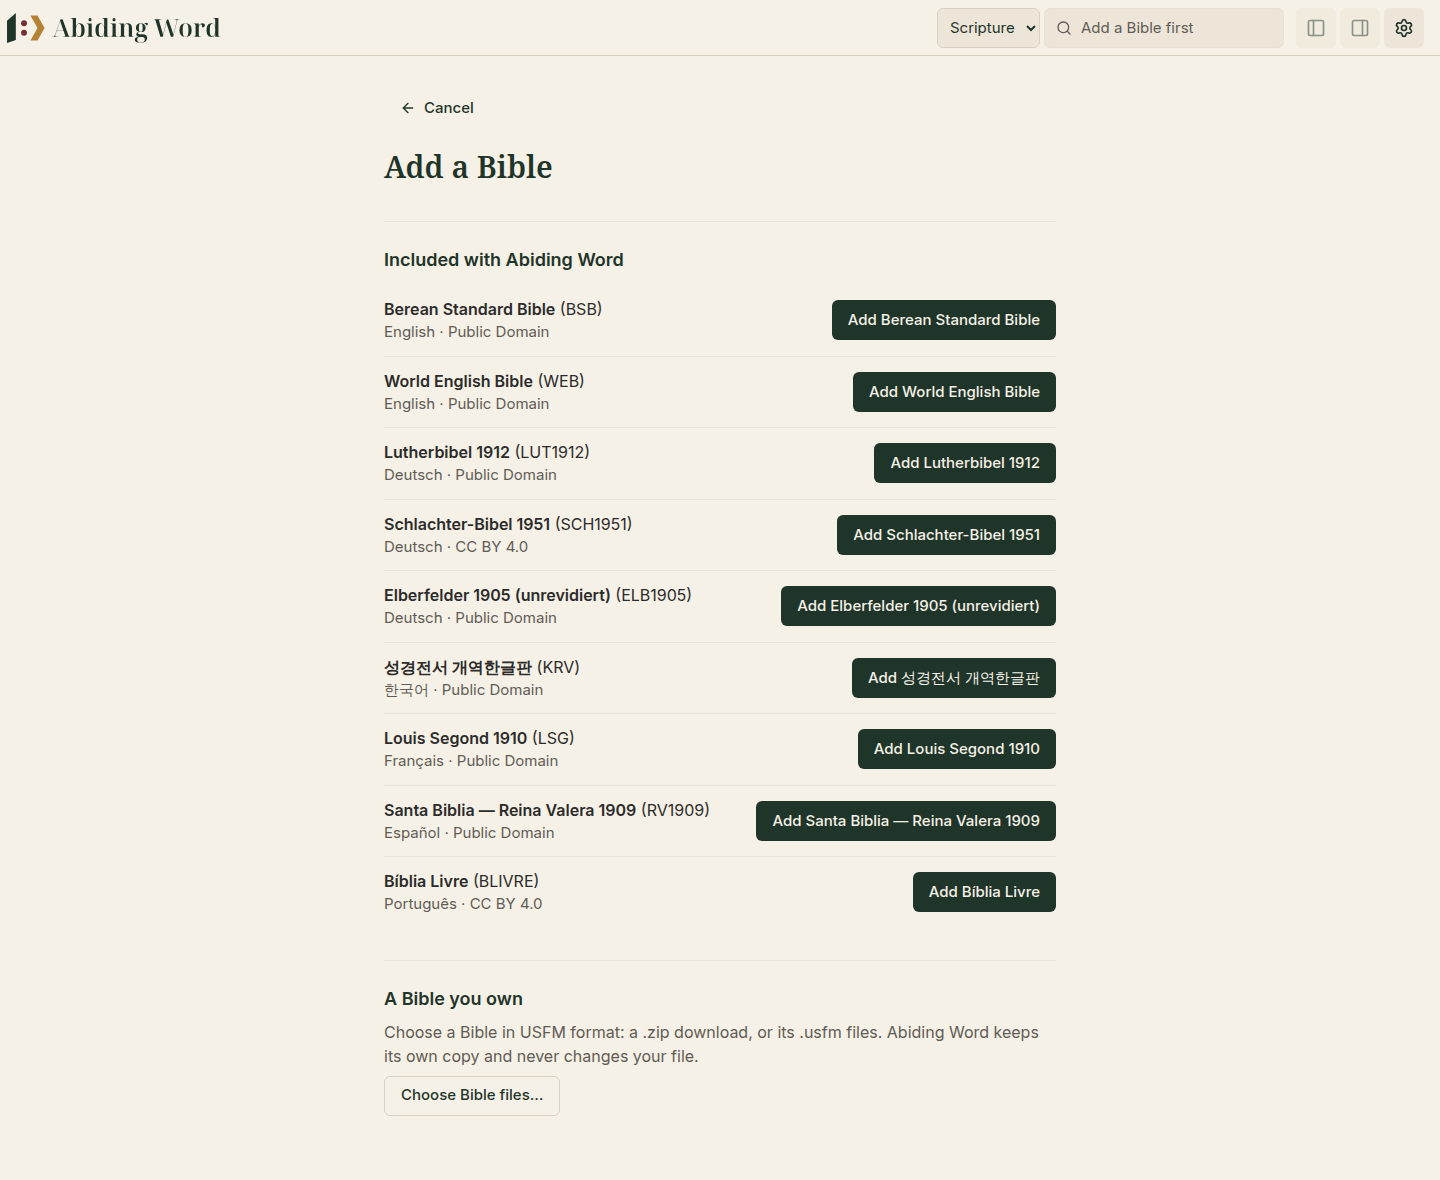
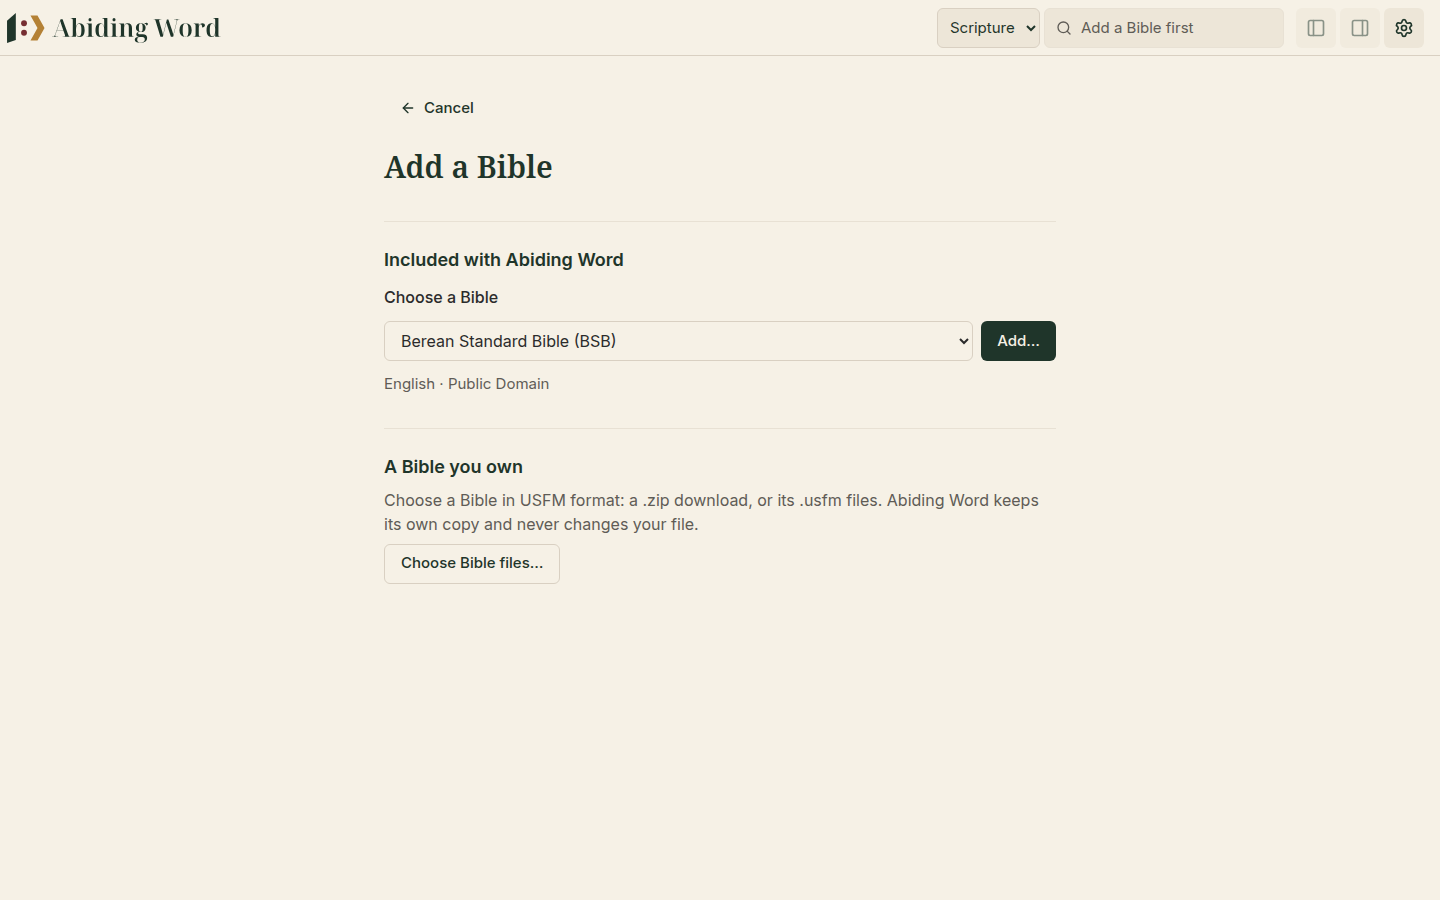
Add a Bible: choose from a drop-down, confirm in a dialog
With nine included Bibles the list of rows grew long. The included Bibles
are now one "Choose a Bible" drop-down, grouped by language (the interface
language's group first and preselected), with the chosen Bible's language
and licence below it. "Add…" opens a confirmation dialog (name, language,
licence; Cancel / Continue); Continue leads to the usual verification
screen, so nothing is added before the user confirms there.

Dialog is a new small design-system component: modal, labelled by its
title, focus moves in (to Cancel) and stays inside, Escape and the backdrop
close it, focus returns to the opener. New strings in all six languages;
the unused per-Bible "Add {{name}}" string is removed. Tests cover the
grouping and order, the preselection in English, German and Korean, and
Cancel/Escape adding nothing. Guide steps and screenshots updated.

Claude-Session: https://claude.ai/code/session_01N33PTtXLiLt4XAJBKgD7wy

diff --git a/tests/ui/bibles.test.tsx b/tests/ui/bibles.test.tsx
@@ -9,7 +9,10 @@ describe("adding and managing Bibles", () => {
     const { api, user } = await renderApp();
     const scripture = screen.getByRole("complementary", { name: "Scripture" });
     await user.click(within(scripture).getByRole("button", { name: "Add a Bible…" }));
-    await user.click(await screen.findByRole("button", { name: "Add World English Bible" }));
+    await user.selectOptions(await screen.findByRole("combobox", { name: "Choose a Bible" }), "World English Bible (WEB)");
+    await user.click(screen.getByRole("button", { name: "Add…" }));
+    const dialog = screen.getByRole("dialog", { name: "Add World English Bible?" });
+    await user.click(within(dialog).getByRole("button", { name: "Continue" }));
 
     expect(await screen.findByRole("heading", { level: 1, name: "New Bible" })).toBeInTheDocument();
     expect(screen.getByLabelText("Name")).toHaveValue("World English Bible");
@@ -26,29 +29,55 @@ describe("adding and managing Bibles", () => {
     expect(within(pane).getByRole("combobox", { name: "Translation" })).toHaveDisplayValue("WEB");
   });
 
-  it("offers every included Bible in one list, the interface language's first", async () => {
+  it("offers the included Bibles in one drop-down, grouped by language", async () => {
     const { user } = await renderApp();
     await user.click(screen.getByRole("button", { name: "Add a Bible…" }));
-    const included = await screen.findByRole("heading", { level: 2, name: "Included with Abiding Word" });
-    const list = within(included.closest("section")!).getByRole("list");
-    const offered = within(list).getAllByRole("button").map((b) => b.textContent);
-    expect(offered).toEqual([
-      "Add Berean Standard Bible",
-      "Add World English Bible",
-      "Add Lutherbibel 1912",
-      "Add Schlachter-Bibel 1951",
-      "Add Elberfelder 1905 (unrevidiert)",
-      "Add 성경전서 개역한글판",
-      "Add Louis Segond 1910",
-      "Add Santa Biblia — Reina Valera 1909",
-      "Add Bíblia Livre",
+    const select = await screen.findByRole("combobox", { name: "Choose a Bible" });
+    const groups = within(select).getAllByRole("group").map((g) => g.getAttribute("label"));
+    expect(groups).toEqual(["English", "Deutsch", "한국어", "Français", "Español", "Português"]);
+    expect(within(select).getAllByRole("option").map((o) => o.textContent)).toEqual([
+      "Berean Standard Bible (BSB)",
+      "World English Bible (WEB)",
+      "Lutherbibel 1912 (LUT1912)",
+      "Schlachter-Bibel 1951 (SCH1951)",
+      "Elberfelder 1905 (unrevidiert) (ELB1905)",
+      "성경전서 개역한글판 (KRV)",
+      "Louis Segond 1910 (LSG)",
+      "Santa Biblia — Reina Valera 1909 (RV1909)",
+      "Bíblia Livre (BLIVRE)",
     ]);
-    // the heading is not repeated for each Bible
-    expect(screen.getAllByRole("heading", { name: "Included with Abiding Word" })).toHaveLength(1);
-    expect(within(list).getByText(/Português · CC BY 4\.0/)).toBeInTheDocument();
+    // the first Bible in the interface language is chosen; its language and licence are shown
+    expect(select).toHaveDisplayValue("Berean Standard Bible (BSB)");
+    expect(screen.getByText("English · Public Domain")).toBeInTheDocument();
+    await user.selectOptions(select, "Bíblia Livre (BLIVRE)");
+    expect(screen.getByText("Português · CC BY 4.0")).toBeInTheDocument();
   });
 
-  it("puts the German Bible first for a German interface, and keeps offering the others once one is added", async () => {
+  it("asks for confirmation in a dialog, and Cancel or Escape adds nothing", async () => {
+    const { api, user } = await renderApp();
+    await user.click(screen.getByRole("button", { name: "Add a Bible…" }));
+    await user.selectOptions(await screen.findByRole("combobox", { name: "Choose a Bible" }), "Lutherbibel 1912 (LUT1912)");
+    const add = screen.getByRole("button", { name: "Add…" });
+    await user.click(add);
+    let dialog = screen.getByRole("dialog", { name: "Add Lutherbibel 1912?" });
+    expect(dialog).toHaveAttribute("aria-modal", "true");
+    expect(within(dialog).getByText("Language: Deutsch")).toBeInTheDocument();
+    expect(within(dialog).getByText("Licence: Public Domain")).toBeInTheDocument();
+    // focus starts in the dialog, on Cancel
+    expect(within(dialog).getByRole("button", { name: "Cancel" })).toHaveFocus();
+    await user.keyboard("{Escape}");
+    expect(screen.queryByRole("dialog")).not.toBeInTheDocument();
+    expect(add).toHaveFocus();
+
+    await user.click(add);
+    dialog = screen.getByRole("dialog", { name: "Add Lutherbibel 1912?" });
+    await user.click(within(dialog).getByRole("button", { name: "Cancel" }));
+    expect(screen.queryByRole("dialog")).not.toBeInTheDocument();
+    expect(api.state.pendingPreview).toBeNull();
+    expect(screen.getByRole("heading", { level: 1, name: "Add a Bible" })).toBeInTheDocument();
+  });
+
+  it("chooses the German Bible first for a German interface, and leaves out what is already added", async () => {
     const api = createMemoryApi();
     api.installFixtureBible("WEB", "web").isBuiltin = true;
     await i18n.changeLanguage("de");
@@ -56,25 +85,23 @@ describe("adding and managing Bibles", () => {
       const { user } = await renderApp(api);
       await user.click(screen.getByRole("button", { name: "Einstellungen" }));
       await user.click(await screen.findByRole("button", { name: /Bibel hinzufügen/ }));
-      const included = await screen.findByRole("heading", { level: 2, name: "In Abiding Word enthalten" });
-      const names = within(included.closest("section")!)
-        .getAllByRole("listitem")
-        .map((item) => item.querySelector("strong")?.textContent);
-      expect(names.slice(0, 3)).toEqual(["Lutherbibel 1912", "Schlachter-Bibel 1951", "Elberfelder 1905 (unrevidiert)"]);
-      expect(names).toContain("Berean Standard Bible");
-      expect(names).not.toContain("World English Bible"); // already added
+      const select = await screen.findByRole("combobox", { name: "Bibel auswählen" });
+      expect(within(select).getAllByRole("group")[0]).toHaveAttribute("label", "Deutsch");
+      expect(select).toHaveDisplayValue("Lutherbibel 1912 (LUT1912)");
+      const options = within(select).getAllByRole("option").map((o) => o.textContent);
+      expect(options).toContain("Berean Standard Bible (BSB)");
+      expect(options).not.toContain("World English Bible (WEB)"); // already added
     } finally {
       await i18n.changeLanguage("en");
     }
   });
 
-  it("offers the Korean Bible first for a Korean interface", async () => {
+  it("chooses the Korean Bible first for a Korean interface", async () => {
     await i18n.changeLanguage("ko");
     try {
       const { user } = await renderApp();
       await user.click(screen.getAllByRole("button", { name: /성경 추가/ })[0]!);
-      const items = await screen.findAllByRole("listitem");
-      expect(items[0]!.querySelector("strong")?.textContent).toBe("성경전서 개역한글판");
+      expect(await screen.findByRole("combobox", { name: "성경 선택" })).toHaveDisplayValue("성경전서 개역한글판 (KRV)");
     } finally {
       await i18n.changeLanguage("en");
     }

diff --git a/src/features/scripture/AddBibleView.tsx b/src/features/scripture/AddBibleView.tsx
@@ -2,6 +2,7 @@ import { useCallback, useEffect, useId, useRef, useState, type ReactNode } from 
 import { Trans, useTranslation } from "react-i18next";
 import { AlertTriangle, ArrowLeft, Check, CircleX } from "lucide-react";
 import { Button } from "@/design-system/Button";
+import { Dialog } from "@/design-system/Dialog";
 import { Notice } from "@/design-system/Notice";
 import { useLoad } from "@/hooks/useLoad";
 import { toApiError } from "@/lib/api";
@@ -9,7 +10,7 @@ import { useApi } from "@/lib/ApiContext";
 import { formatNumber } from "@/i18n/format";
 import { localizeMessage } from "@/i18n/messages";
 import { bookName } from "@/i18n/scripture";
-import type { BibleTranslation, ImportIssue, ImportPreview } from "@/types/scripture";
+import type { BibleTranslation, BundledBibleInfo, ImportIssue, ImportPreview } from "@/types/scripture";
 import { useScripture } from "./ScriptureContext";
 
 type Step =
@@ -130,34 +131,81 @@ export function AddBibleView({ onClose }: { onClose: () => void }) {
 function ChooseStep({ onBundled, onFiles }: { onBundled: (id: string) => void; onFiles: () => void }) {
   const { t, i18n } = useTranslation();
   const api = useApi();
+  const selectId = useId();
   const bundled = useLoad(useCallback(() => api.bibleBundledList(), [api]));
-  // The Bibles in the interface language come first; otherwise the core's order is kept.
+  // Grouped by language, the interface language's group first; otherwise the core's order is kept.
   const language = (i18n.resolvedLanguage ?? i18n.language ?? "en").split("-")[0];
-  const available = (bundled.data ?? [])
-    .filter((b) => !b.installed)
-    .map((bible, index) => ({ bible, index }))
-    .sort((a, b) => Number(b.bible.languageCode === language) - Number(a.bible.languageCode === language) || a.index - b.index)
-    .map(({ bible }) => bible);
+  const groups: { code: string; name: string; bibles: BundledBibleInfo[] }[] = [];
+  for (const bible of (bundled.data ?? []).filter((b) => !b.installed)) {
+    let group = groups.find((g) => g.code === bible.languageCode);
+    if (!group) {
+      group = { code: bible.languageCode, name: bible.language, bibles: [] };
+      groups.push(group);
+    }
+    group.bibles.push(bible);
+  }
+  groups.sort((a, b) => Number(b.code === language) - Number(a.code === language));
+  const available = groups.flatMap((g) => g.bibles);
+  const [chosenId, setChosenId] = useState<string | null>(null);
+  const chosen = available.find((b) => b.id === chosenId) ?? available[0];
+  const [confirming, setConfirming] = useState(false);
   return (
     <div className="flex flex-col gap-8">
-      {available.length > 0 && (
-        <section className="flex flex-col gap-3 border-t border-border-subtle pt-6">
+      {chosen && (
+        <section className="flex flex-col items-start gap-3 border-t border-border-subtle pt-6">
           <h2 className="m-0 text-[1.125rem] font-semibold text-text-strong">{t("scripture.addBible.included")}</h2>
-          <ul className="m-0 flex list-none flex-col p-0">
-            {available.map((bible) => (
-              <li key={bible.id} className="flex flex-wrap items-center justify-between gap-x-4 gap-y-2 border-b border-border-subtle py-3 last:border-b-0">
-                <p className="m-0">
-                  <strong>{bible.name}</strong> ({bible.shortName})
-                  <span className="block text-[0.9375rem] text-text-muted">
-                    {[bible.language, bible.licenseType].join(t("common.listSeparator"))}
-                  </span>
-                </p>
-                <Button variant="primary" onClick={() => onBundled(bible.id)}>
-                  {t("scripture.addBible.addNamed", { name: bible.name })}
-                </Button>
-              </li>
-            ))}
-          </ul>
+          <label htmlFor={selectId} className="font-medium">
+            {t("scripture.addBible.chooseLabel")}
+          </label>
+          <div className="flex w-full flex-wrap items-center gap-2">
+            <select
+              id={selectId}
+              value={chosen.id}
+              onChange={(e) => setChosenId(e.target.value)}
+              className="h-10 min-w-0 flex-1 rounded-aw border border-border bg-bg px-3"
+            >
+              {groups.map((group) => (
+                <optgroup key={group.code} label={group.name}>
+                  {group.bibles.map((bible) => (
+                    <option key={bible.id} value={bible.id}>
+                      {bible.name} ({bible.shortName})
+                    </option>
+                  ))}
+                </optgroup>
+              ))}
+            </select>
+            <Button variant="primary" onClick={() => setConfirming(true)}>
+              {t("scripture.addBible.addSelected")}
+            </Button>
+          </div>
+          <p className="m-0 text-[0.9375rem] text-text-muted">{[chosen.language, chosen.licenseType].join(t("common.listSeparator"))}</p>
+          {confirming && (
+            <Dialog
+              title={t("scripture.addBible.confirmTitle", { name: chosen.name })}
+              onClose={() => setConfirming(false)}
+              actions={
+                <>
+                  <Button onClick={() => setConfirming(false)}>{t("common.cancel")}</Button>
+                  <Button
+                    variant="primary"
+                    onClick={() => {
+                      setConfirming(false);
+                      onBundled(chosen.id);
+                    }}
+                  >
+                    {t("scripture.addBible.confirmContinue")}
+                  </Button>
+                </>
+              }
+            >
+              <p className="m-0">
+                <strong>{chosen.name}</strong> ({chosen.shortName})
+              </p>
+              <p className="m-0">{t("scripture.addBible.confirmLanguage", { language: chosen.language })}</p>
+              <p className="m-0">{t("scripture.addBible.licence", { licence: chosen.licenseType })}</p>
+              <p className="m-0 text-text-muted">{t("scripture.addBible.confirmBody")}</p>
+            </Dialog>
+          )}
         </section>
       )}
       <section className="flex flex-col items-start gap-2 border-t border-border-subtle pt-6">

diff --git a/src/design-system/Dialog.tsx b/src/design-system/Dialog.tsx
@@ -1,0 +1,84 @@
+import { useEffect, useId, useRef, type ReactNode } from "react";
+import { createPortal } from "react-dom";
+
+interface DialogProps {
+  /** The dialog's heading; also its accessible name. */
+  title: ReactNode;
+  children: ReactNode;
+  /** Buttons, right-aligned at the foot. */
+  actions: ReactNode;
+  /** Escape, the backdrop and Cancel all call this. */
+  onClose: () => void;
+}
+
+/**
+ * A small modal dialog for a confirmation. It takes focus when it opens
+ * (the first button in `actions` unless another element asks with
+ * `autoFocus`), keeps Tab inside, closes on Escape, and gives focus back to
+ * whatever had it before. The page behind is dimmed and cannot be used.
+ */
+export function Dialog({ title, children, actions, onClose }: DialogProps) {
+  const titleId = useId();
+  const panel = useRef<HTMLDivElement>(null);
+  const onCloseRef = useRef(onClose);
+  useEffect(() => {
+    onCloseRef.current = onClose;
+  }, [onClose]);
+
+  useEffect(() => {
+    const opener = document.activeElement instanceof HTMLElement ? document.activeElement : null;
+    const root = panel.current;
+    if (root && !root.contains(document.activeElement)) {
+      root.querySelector<HTMLElement>("[data-dialog-actions] button")?.focus();
+    }
+    const focusable = () =>
+      Array.from(root?.querySelectorAll<HTMLElement>("button, [href], input, select, textarea, [tabindex]:not([tabindex='-1'])") ?? []).filter(
+        (el) => !el.hasAttribute("disabled"),
+      );
+    const onKey = (e: KeyboardEvent) => {
+      if (e.key === "Escape") {
+        e.stopPropagation();
+        onCloseRef.current();
+        return;
+      }
+      if (e.key !== "Tab") return;
+      const items = focusable();
+      if (items.length === 0) return;
+      const first = items[0]!;
+      const last = items[items.length - 1]!;
+      if (e.shiftKey && document.activeElement === first) {
+        e.preventDefault();
+        last.focus();
+      } else if (!e.shiftKey && document.activeElement === last) {
+        e.preventDefault();
+        first.focus();
+      }
+    };
+    document.addEventListener("keydown", onKey, true);
+    return () => {
+      document.removeEventListener("keydown", onKey, true);
+      opener?.focus();
+    };
+  }, []);
+
+  return createPortal(
+    <div className="fixed inset-0 z-50 flex items-center justify-center bg-[rgba(22,39,31,0.45)] p-4" onMouseDown={(e) => e.target === e.currentTarget && onClose()}>
+      <div
+        ref={panel}
+        role="dialog"
+        aria-modal="true"
+        aria-labelledby={titleId}
+        className="flex w-full max-w-md flex-col gap-4 rounded-aw border border-border bg-bg p-6 text-text shadow-xl"
+      >
+        <h2 id={titleId} className="m-0 font-display text-[1.25rem] font-heading text-text-strong">
+          {title}
+        </h2>
+        <div className="flex flex-col gap-2">{children}</div>
+        <div data-dialog-actions className="flex flex-wrap justify-end gap-2 pt-2">
+          {actions}
+        </div>
+      </div>
+    </div>,
+    document.body,
+  );
+}

diff --git a/docs/guide/01-getting-started.md b/docs/guide/01-getting-started.md
@@ -44,12 +44,24 @@ thing to fix.
 ## Add a Bible
 
 1. Click **Add a Bible…** on the left.
-2. Under *Included with Abiding Word*, choose a Bible and click its **Add**
-   button. Bibles in the language you use Abiding Word in are listed first.
+2. Under *Included with Abiding Word*, open the **Choose a Bible** list and
+   pick one. The list is grouped by language, and Bibles in the language you
+   use Abiding Word in come first.
+3. Click **Add…**.
 
 <p align="center">
-  <img src="images/add-bible.png" alt="The 'Add a Bible' screen listing the Bibles included with Abiding Word, and an option to choose your own Bible files" width="760">
+  <img src="images/add-bible.png" alt="The 'Add a Bible' screen with the 'Choose a Bible' list showing the Berean Standard Bible, an Add button, and an option to choose your own Bible files" width="760">
 </p>
+
+4. A small window asks you to confirm, showing the Bible's language and
+   licence. Click **Continue** (or **Cancel** if you picked the wrong one).
+
+<p align="center">
+  <img src="images/add-bible-confirm.png" alt="The confirmation window: 'Add Berean Standard Bible?' with its language, licence, Cancel and Continue" width="760">
+</p>
+
+5. Abiding Word checks every book, chapter and verse and shows what it found.
+   Click **Add this Bible** to finish.
 
 These Bibles come with Abiding Word. All of them are free for everyone to use:
 
